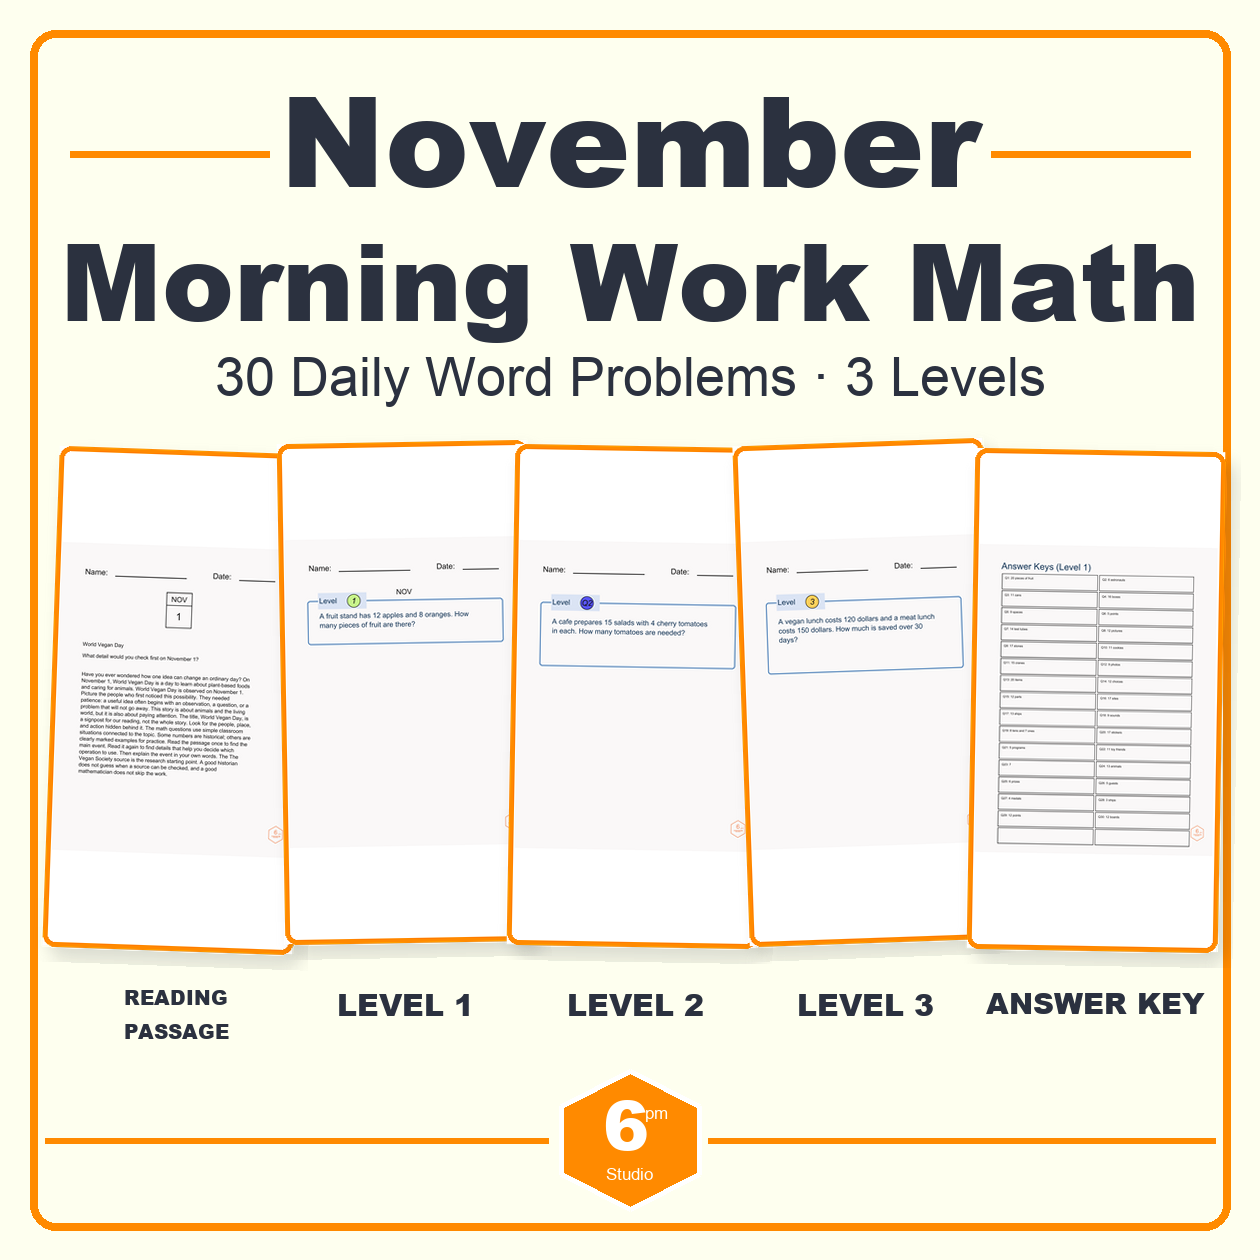
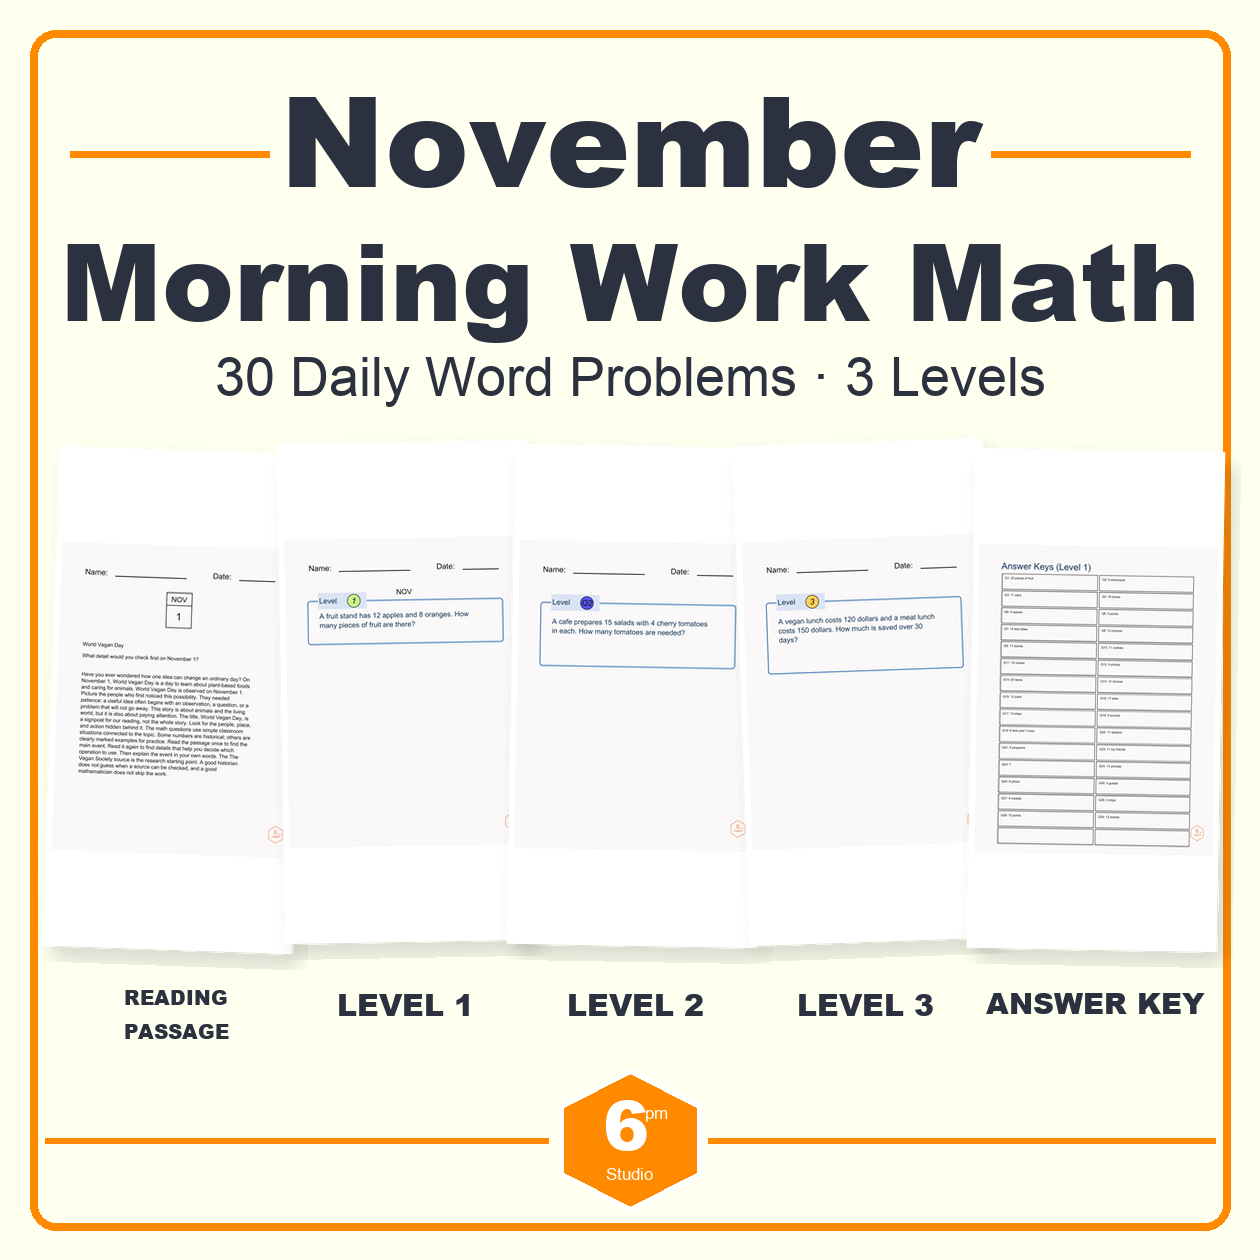
Match landing-page thumbnail card treatment

Changed region(s): [[0.031, 0.3405, 0.9595, 0.7738], [0.9595, 0.3714, 0.9905, 0.7429]]

diff --git a/scripts/validate-tpt-visual-structure.py b/scripts/validate-tpt-visual-structure.py
@@ -73,8 +73,40 @@ def main():
         mask = mask_for(name)
         ref_pixels, actual_pixels = list(ref.getdata()), list(actual.getdata())
         selected = [i for i, included in enumerate(sum(mask, [])) if included]
-        score = ssim([ref_pixels[i] for i in selected], [actual_pixels[i] for i in selected])
-        results.append({"asset": name, "stable_region_ssim": round(score, 6), "threshold": 0.10, "passed": score >= 0.10})
+        ref_selected = [ref_pixels[i] for i in selected]
+        actual_selected = [actual_pixels[i] for i in selected]
+        score = ssim(ref_selected, actual_selected)
+        absolute_differences = [abs(a - b) for a, b in zip(ref_selected, actual_selected)]
+        result = {
+            "asset": name,
+            "stable_region_ssim": round(score, 6),
+            "pixel_comparison": {
+                "mean_absolute_error": round(sum(absolute_differences) / len(absolute_differences), 6),
+                "matching_pixel_ratio_at_16": round(sum(diff <= 16 for diff in absolute_differences) / len(absolute_differences), 6),
+                "compared_pixels": len(selected),
+            },
+            "threshold": 0.10,
+            "passed": score >= 0.10,
+        }
+        if name == "landing-page":
+            ref_rgb = ref.convert("RGB")
+            actual_rgb = Image.open(next(generated_dir.glob(f"*-{name}.png"))).convert("RGB")
+            diff = Image.new("RGB", actual_rgb.size)
+            overlay = Image.blend(ref_rgb, actual_rgb, 0.5)
+            diff_pixels = []
+            for ref_pixel, actual_pixel, included in zip(ref_rgb.getdata(), actual_rgb.getdata(), sum(mask, [])):
+                if not included:
+                    diff_pixels.append((255, 255, 255))
+                    continue
+                delta = max(abs(a - b) for a, b in zip(ref_pixel, actual_pixel))
+                diff_pixels.append((min(255, delta * 4), 0, 0))
+            diff.putdata(diff_pixels)
+            diff_path = generated_dir / "landing-page-pixel-diff.png"
+            overlay_path = generated_dir / "landing-page-overlay.png"
+            diff.save(diff_path, "PNG", optimize=True)
+            overlay.save(overlay_path, "PNG", optimize=True)
+            result["pixel_comparison"].update({"diff_artifact": str(diff_path), "overlay_artifact": str(overlay_path)})
+        results.append(result)
     report = {"method": "fixed structural regions; variable month/content regions excluded", "results": results, "passed": all(x["passed"] for x in results)}
     Path(args.report).write_text(json.dumps(report, indent=2) + "\n")
     print(json.dumps(report, indent=2))

diff --git a/scripts/generate_monthly_thumbnails.py b/scripts/generate_monthly_thumbnails.py
@@ -171,7 +171,7 @@ def pill(draw, box, text, size=34):
     draw.text((x + w // 2, y + 9), text, anchor="ma", fill="white", font=fitted(text, w - 24, size))
 
 
-def card(canvas, page, box, label, label_style="pill", label_width=None):
+def card(canvas, page, box, label, label_style="pill", label_width=None, outline=True):
     x, y, w, h = box
     shadow = Image.new("RGBA", canvas.size, (0, 0, 0, 0))
     ImageDraw.Draw(shadow).rounded_rectangle((x + 8, y + 10, x + w + 8, y + h + 10), 12, fill=(43, 49, 63, 45))
@@ -182,7 +182,8 @@ def card(canvas, page, box, label, label_style="pill", label_width=None):
     sheet.paste(fitted_image, ((w - fitted_image.width) // 2, (h - fitted_image.height) // 2))
     canvas.paste(sheet, (x, y))
     draw = ImageDraw.Draw(canvas)
-    draw.rounded_rectangle((x, y, x + w, y + h), 12, outline=ORANGE, width=5)
+    if outline:
+        draw.rounded_rectangle((x, y, x + w, y + h), 12, outline=ORANGE, width=5)
     if label_style == "pill":
         pill_width = label_width or w
         pill(draw, (x + (w - pill_width) // 2, y + h + 10, pill_width, 54), label, 34)
@@ -358,7 +359,7 @@ def compose_landing_page(month, day_count, pages, out):
     ]
     for key, cx, cy, width, height, angle, label in cards:
         worksheet = Image.new("RGBA", (width + 32, height + 32), (0, 0, 0, 0))
-        card(worksheet, pages[key], (16, 16, width, height), "", label_style="none")
+        card(worksheet, pages[key], (16, 16, width, height), "", label_style="none", outline=False)
         worksheet = worksheet.rotate(angle, resample=Image.Resampling.BICUBIC, expand=True)
         canvas.alpha_composite(worksheet, (cx - worksheet.width // 2, cy - worksheet.height // 2))
         label_lines = label.split("\n")

diff --git a/docs/landing-page-thumbnail.md b/docs/landing-page-thumbnail.md
@@ -16,5 +16,8 @@ npm run thumbnails:generate -- \
 The output is named `november-v1.0-landing-page.png` and contains, left to
 right, the real Reading Passage, Level 1, Level 2, Level 3, and Answer Key
 pages. The generated report and TPT handoff include its source-page mapping,
-PDF checksum, dimensions, and output checksum. The `home` repository should
-consume `landingPageImage.path` from that handoff through its own PR.
+PDF checksum, dimensions, and output checksum. Visual QA also writes
+`landing-page-pixel-diff.png` and `landing-page-overlay.png`, plus the
+fixed-region SSIM and pixel-matching metrics used for acceptance. The `home`
+repository should consume `landingPageImage.path` from that handoff through
+its own PR.
